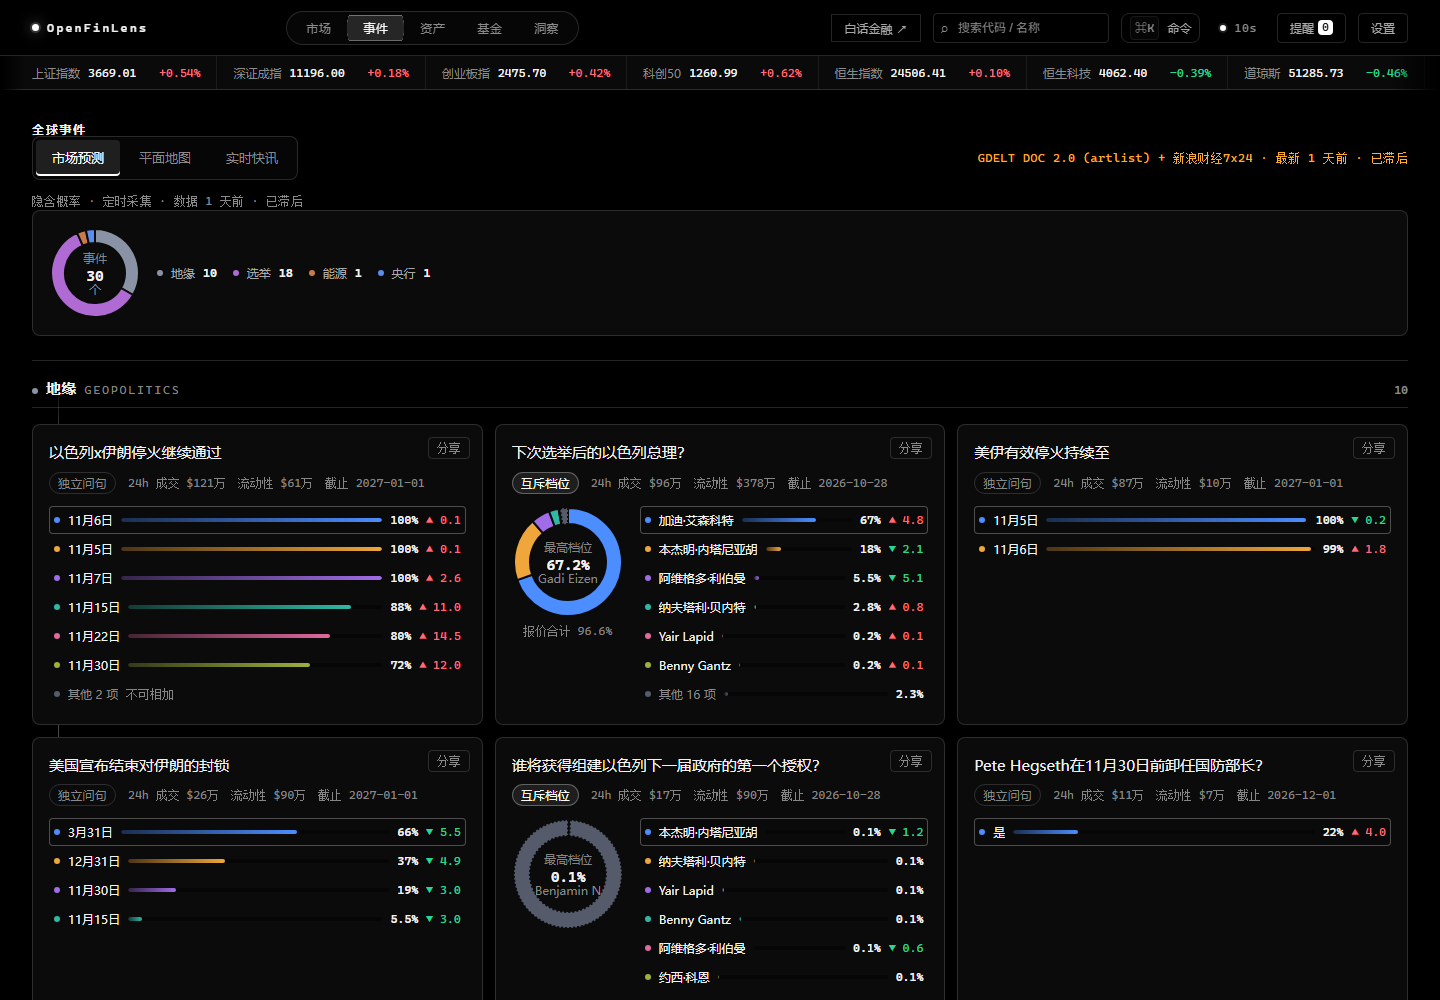
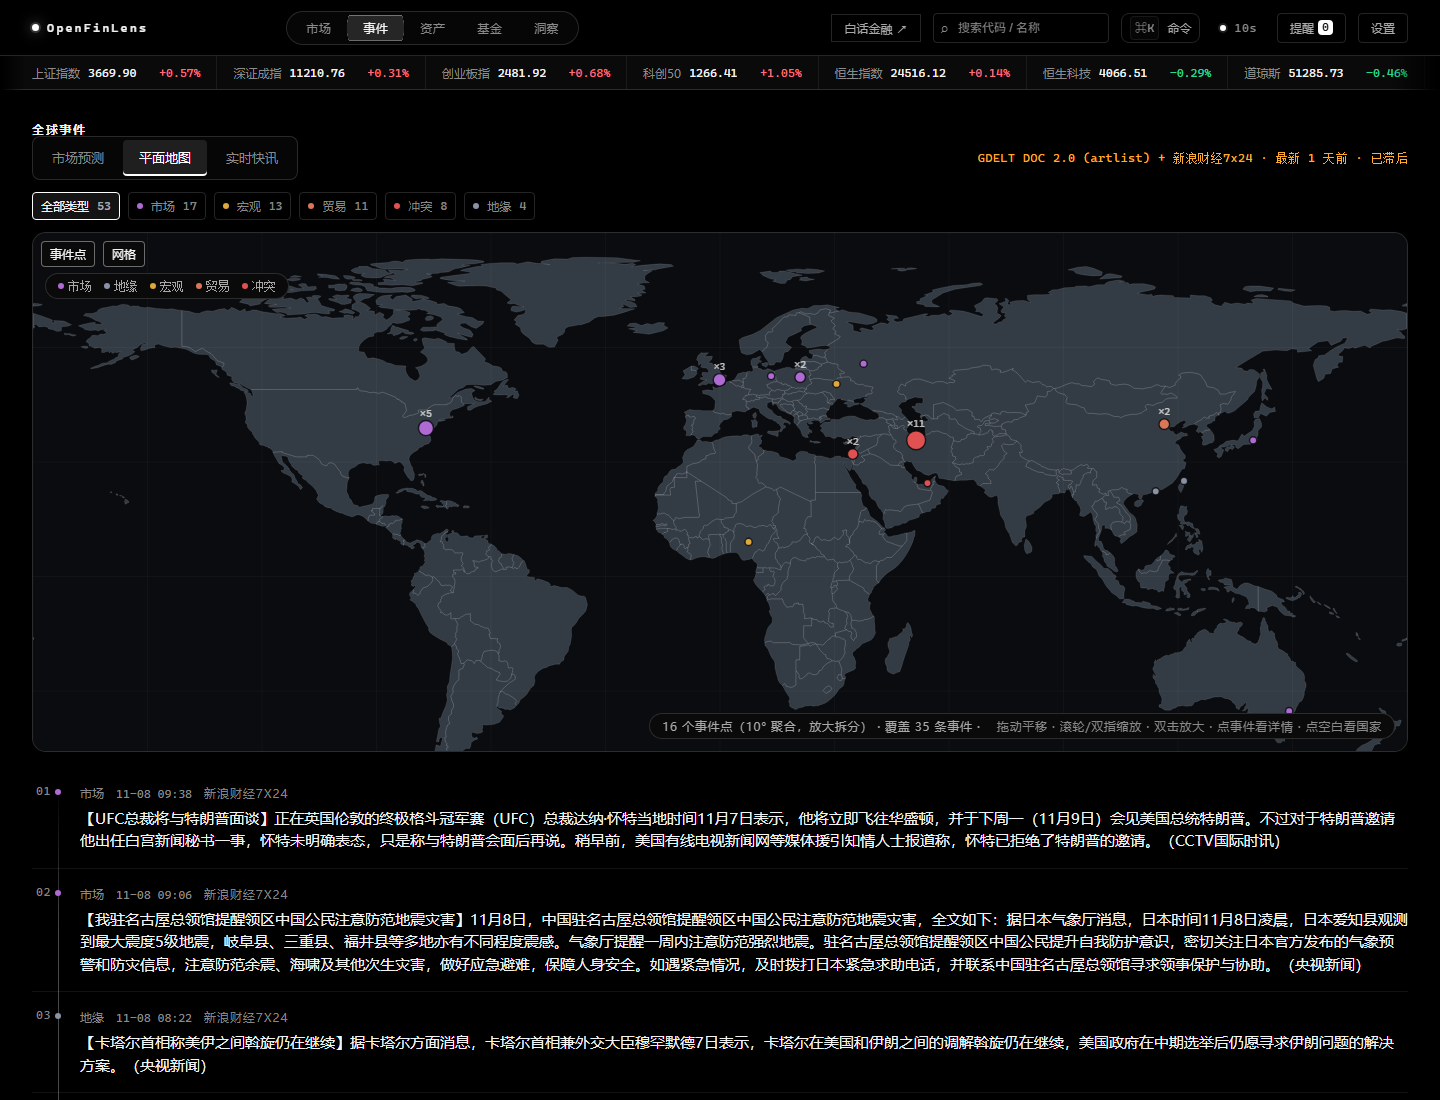
docs(readme): 界面章节改写为 v3（纯黑/纯白、减法清单、逻辑改动）；assets 换 v3 截图；事件源标签去掉采集器技术名

diff --git a/js/app.js b/js/app.js
@@ -2941,7 +2941,7 @@
     // 塞进状态行会把它撑成一长串换行，把工具栏顶高——信息各归其位。
     // v3：只留「来源 · 最新事件多长时间前 · 是否滞后」，去掉采集器技术名（GDELT DOC 2.0/artlist 这类）。
     const src = (state.eventsVia === 'cache' ? '缓存 · ' : '') +
-      String(state.eventsSource || '').replace(/（[^）]*）/g, '').trim() +
+      String(state.eventsSource || '').replace(/（[^）]*）/g, '').replace(/s*DOCs*[d.]*/i, '').trim() +
       ' · 最新 ' + ageTxt +
       (stale ? ' · 已滞后' : '');
     el.globeStatus.textContent = src;

diff --git a/README.md b/README.md
@@ -73,17 +73,19 @@ GDELT + 新浪 7x24 每 5 分钟采集一次，按类别落在自绘世界地图
 
 宽屏（≥1280px）自动两栏密排，行情 10 秒轮询，红涨绿跌可切换。界面是单一设计语言 **NEXUS 深空终端**（深空 / 日光两个模式，图表同步换色）。
 
-## 界面语言 v2 · NEXUS 深空终端
+## 界面：一套设计语言，纯黑 / 纯白
 
-2026-11 推倒重来的一轮 UI 重构：旧的 8 套皮肤（瑞士 / 包豪斯 / 黏土 / 孟菲斯 / 报纸 / 极光 / OLED / 暗色）全部删除，换成一**套**设计语言的两个模式——**深空**（默认）与 **日光**。
+2026-11 的两轮重构。第一轮把旧的 8 套皮肤（瑞士 / 包豪斯 / 黏土 / 孟菲斯 / 报纸 / 极光 / OLED / 暗色）全部删掉，收成**一套**设计语言的两个模式；第二轮按"减法"重做——去掉装饰、删掉讲第二遍的模块。
 
-- **一套令牌**：底色五层、文字四级、描边三级、唯一强调色（青 `#35e1ff` + 副色蓝 `#4f7cff`）、圆角三档、间距七档、字号五档，全部定义在 `css/style.css` 的 `:root`，由 `_test/tokens.test.mjs` 逐条守着（间距不许离格、字号不许低于 12px、红绿不许外溢到非涨跌元素）。
-- **画布优先**：数据裸排，卡片是"光面"不是盒子——1px 冷光描边 + 顶部内高光 + 极弱刻度网格，深空模式禁用阴影（黑影叠黑底等于没画），日光模式才用真实投影承接海拔。
-- **信息架构 12 → 5**：一级只剩「市场 / 事件 / 资产 / 基金 / 洞察」，每个一级下面是原来的板块（市场=全部·A股·港股·美股·加密·宏观·期权）。内部 `state.tab` 的钥匙一个没改，所以 `#tab=cn` 这类老深链、按板块自定义顺序、分区判定全部照旧。
+- **纯黑 / 纯白**：深空模式 `#000` 底、日光模式 `#fff` 底，文字与描边全是中性灰，**没有蓝色调、没有渐变、没有玻璃模糊、没有背景网格与光晕**。强调色退成单色（深空白 / 日光黑），颜色只留给涨跌和图表。
+- **令牌单一事实源**：底色/文字/描边/圆角三档/间距七档/字号五档全部在 `css/style.css` 的 `:root`，被 `_test/tokens.test.mjs` 66 条断言逐条守着（间距不许离格、字号不许低于 12px、红绿不许外溢到非涨跌元素）。
+- **信息架构 12 → 5**：一级只剩「市场 / 事件 / 资产 / 基金 / 洞察」，每个一级下面是原来的板块（市场 = 全部·A股·港股·美股·加密·宏观·期权）。内部 `state.tab` 的钥匙一个没改，`#tab=cn` 这类老深链、按板块自定义顺序、分区判定全部照旧。
 - **⌘K / Ctrl+K 命令面板**：中文名 / 拼音首字母 / 代码 / 功能名直达，键盘全流程（↑↓ 选择、↵ 执行、Esc 关闭）。
-- **动效按 Telegram-iOS 开源实现的实测参数翻译**（[`docs/UI-V2-SPEC.md`](docs/UI-V2-SPEC.md) 有逐条出处）：按压"进快出慢"（按下瞬时着色、松开 0.2s 淡出）、弹层 0.42s 弹簧（2.1% 过冲）而收起只要 0.2s、数字变化是"旧值位移淡出 + 新值放大进场"而不是走马灯、列表错峰 40ms、页面切换用 View Transitions。全部只动 `transform/opacity/color`，并且 `prefers-reduced-motion` 下自动收敛成纯颜色反馈。
+- **动效按 Telegram-iOS 开源实现的实测参数翻译**（[`docs/UI-V2-SPEC.md`](docs/UI-V2-SPEC.md) 有逐条出处）：按压"进快出慢"（按下瞬时着色、松开 0.2s 淡出）、弹层 0.42s 弹簧（2.1% 过冲）而收起只要 0.2s、数字变化是"旧值位移淡出 + 新值放大进场"而不是走马灯、列表错峰 40ms、页面切换用 View Transitions。全部只动 `transform/opacity/color`，`prefers-reduced-motion` 下收敛成纯颜色反馈。
 
-分层在 `css/ui/`（`01-shell` 外壳 / `02-market` 行情 / `03-panels` 面板 / `04-motion` 动效），每层只消费令牌，旧 `css/style.css` 退化为「令牌单一事实源 + 旧结构兜底」。设计契约见 [`docs/UI-V2-SPEC.md`](docs/UI-V2-SPEC.md)。
+**减法删掉的东西**（都是同一信息讲第二遍）：首屏「市场简报带」那条红绿长条、「全部」页重复的 9 行全球指数表、页头解释实现口径的长句、空的自选占位卡、页脚数据源墙（收进折叠项）。**逻辑也跟着改**：没有自选就整块隐藏；指数墙从"6 张和主卡一样的卡"降级成裸排条；分区可用性随内容动态判定，不会出现"点了是空白"的分区。
+
+分层在 `css/ui/`（`01-shell` 外壳 / `02-market` 行情 / `03-panels` 面板 / `04-motion` 动效），每层只消费令牌；`css/style.css` 是「令牌单一事实源 + 旧结构兜底」。设计契约与两轮改造记录见 [`docs/UI-V2-SPEC.md`](docs/UI-V2-SPEC.md)。
 
 ## 给 Agent 的数据链路（REST + MCP）
 
